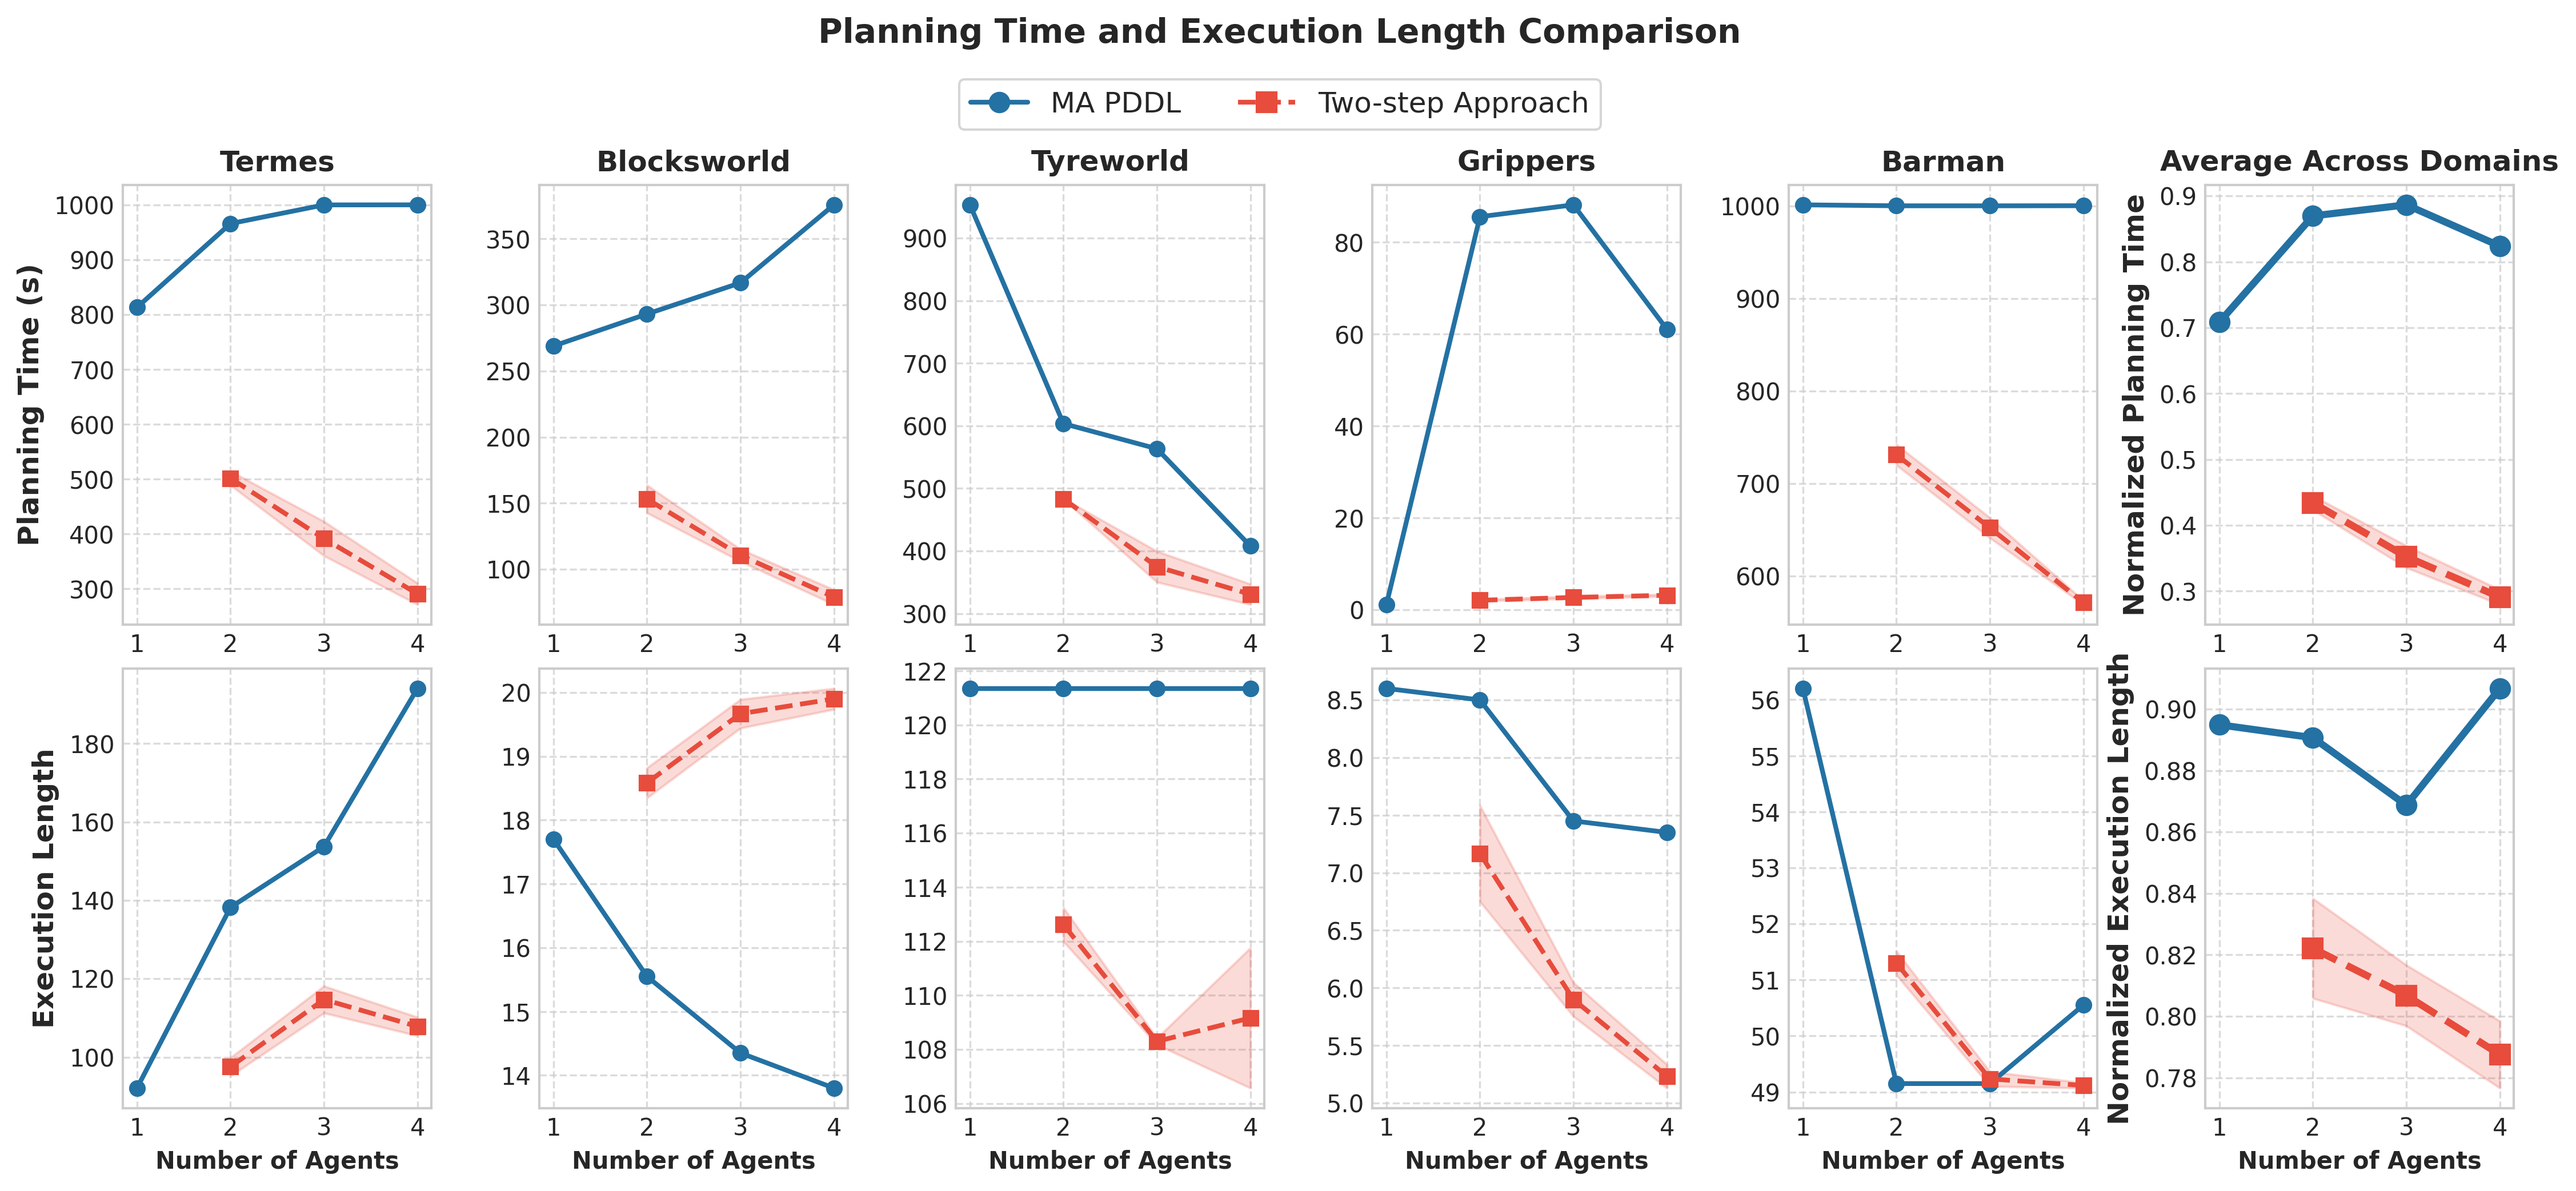
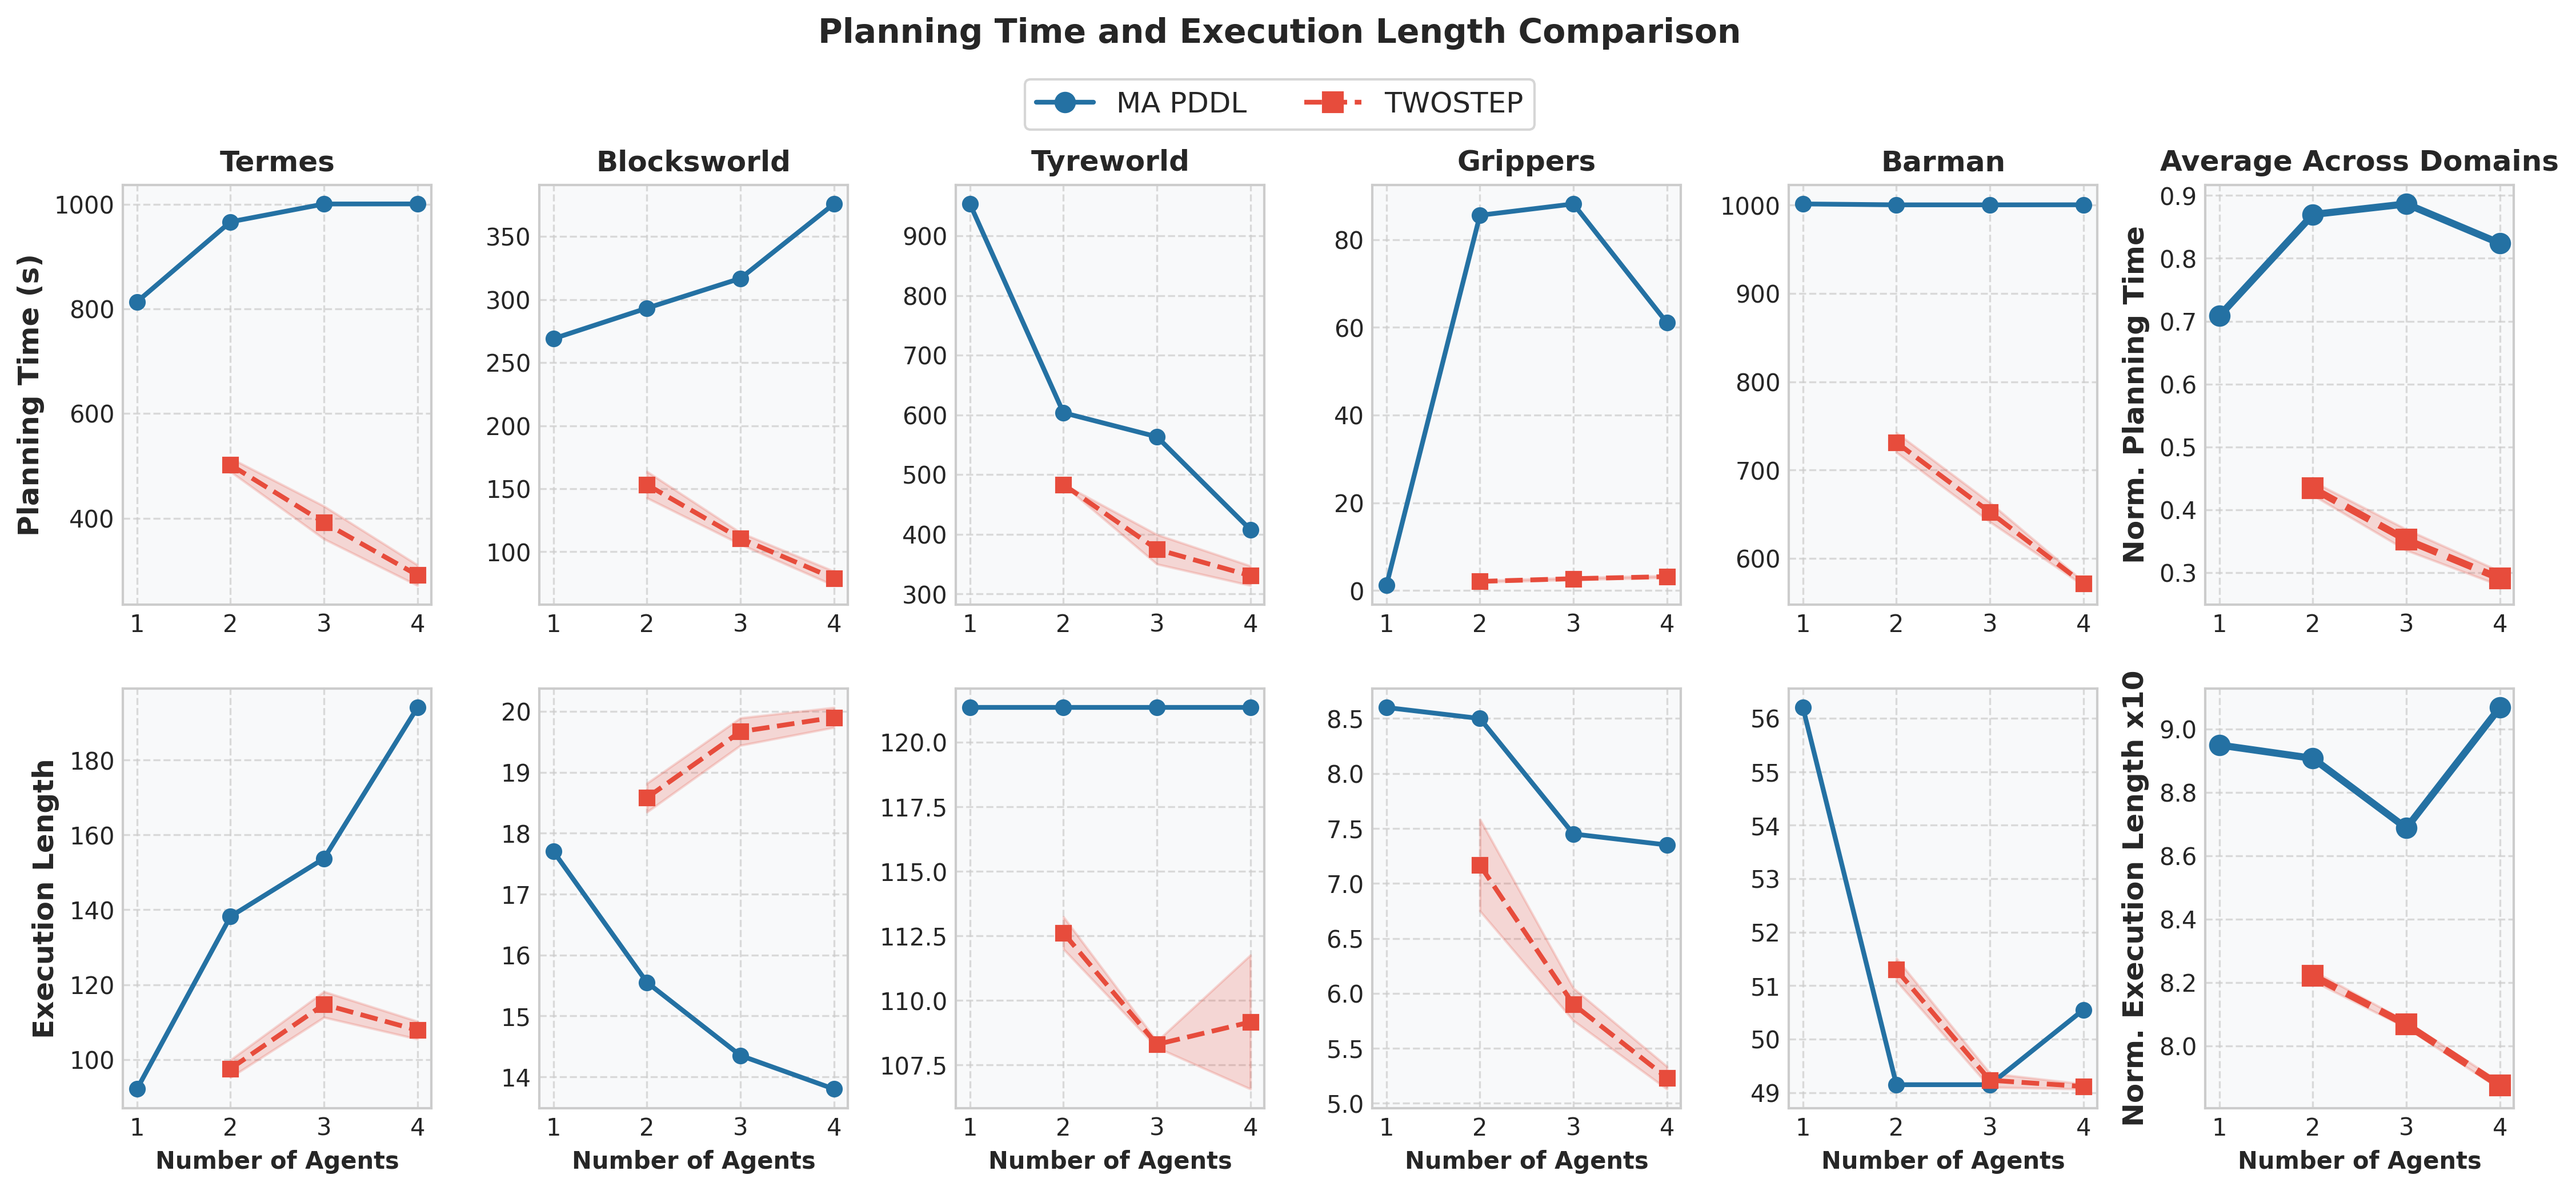
checkpoint + uncleaned 5a results

diff --git a/graph_results.py b/graph_results.py
@@ -67,27 +67,32 @@ twostep_data = {
     'barman': {
         2: {'runs': [(717.10, 51.00), (732.30, 51.45), (744.21, 51.45)]},
         3: {'runs': [(667.67, 49.05), (644.99, 49.30), (644.10, 49.35)]},
-        4: {'runs': [(568.66, 49.05), (573.92, 49.15), (571.89, 49.15)]}
+        4: {'runs': [(568.66, 49.05), (573.92, 49.15), (571.89, 49.15)]},
+        5: {'runs': [(631.85, 49.65), (502.12, 46.83), (547.94, 49.40)]}
     },
     'blocksworld': {
         2: {'runs': [(138.39, 18.25), (160.70, 18.75), (160.47, 18.75)]},
         3: {'runs': [(117.10, 19.65), (107.41, 19.40), (107.29, 19.95)]},
-        4: {'runs': [(75.33, 19.70), (74.69, 19.90), (86.87, 20.10)]}
+        4: {'runs': [(75.33, 19.70), (74.69, 19.90), (86.87, 20.10)]},
+        5: {'runs': [(70.08, 21.60), (80.28, 21.70), (85.63, 20.45)]}
     },
     'grippers': {
         2: {'runs': [(1.85, 7.75), (2.21, 6.95), (2.24, 6.80)]},
         3: {'runs': [(2.42, 6.10), (3.03, 5.85), (2.71, 5.75)]},
-        4: {'runs': [(2.88, 5.25), (3.38, 5.10), (3.29, 5.35)]}
+        4: {'runs': [(2.88, 5.25), (3.38, 5.10), (3.29, 5.35)]},
+        5: {'runs': [(3.23, 5.95), (4.01, 5.05), (2.42, 5.85)]}
     },
     'termes': {
         2: {'runs': [(513.31, 99.70), (508.23, 98.60), (483.86, 94.30)]},
         3: {'runs': [(402.16, 117.30), (423.61, 116.95), (349.08, 109.85)]},
-        4: {'runs': [(276.06, 107.75), (278.29, 104.95), (318.53, 110.75)]}
+        4: {'runs': [(276.06, 107.75), (278.29, 104.95), (318.53, 110.75)]},
+        5: {'runs': [(291.38, 113.90), (243.18, 120.38), (234.79, 110.81)]}
     },
     'tyreworld': {
         2: {'runs': [(482.60, 113.50), (483.91, 112.20), (483.39, 112.15)]},
         3: {'runs': [(354.27, 108.15), (360.68, 108.45), (409.58, 108.30)]},
-        4: {'runs': [(322.95, 112.40), (353.46, 106.05), (315.78, 109.05)]}
+        4: {'runs': [(322.95, 112.40), (353.46, 106.05), (315.78, 109.05)]},
+        5: {'runs': [(257.83, 112.30), (209.56, 113.85), (209.32, 114.35)]}
     }
 }
 
@@ -111,8 +116,7 @@ def create_domain_plot(domain, metric, ylabel, title_suffix):
     x_values = []
     y_values = []
     
-    # Only graph up to 4 agents for multiagent approach
-    for n in range(1, 5):  # Changed from range(1, 6)
+    for n in range(1, 5):  # Changed to only go up to 4 agents
         key = f'{domain}-{n}'
         if key in results_dict:
             x_values.append(n)
@@ -128,7 +132,7 @@ def create_domain_plot(domain, metric, ylabel, title_suffix):
     
     # Two-step approach data
     if domain in twostep_data:
-        x_values_twostep = sorted(twostep_data[domain].keys())
+        x_values_twostep = [n for n in sorted(twostep_data[domain].keys()) if n <= 4]  # Only include up to 4 agents
         y_values_twostep = [twostep_data[domain][n][metric] for n in x_values_twostep]
         y_std_twostep = [twostep_data[domain][n][f'std_{metric.replace("avg_", "")}'] for n in x_values_twostep]
         
@@ -150,7 +154,7 @@ def create_domain_plot(domain, metric, ylabel, title_suffix):
     plt.title(f'{domain.capitalize()} Domain {title_suffix}', fontsize=16, fontweight='bold')
     plt.grid(True, linestyle='--', alpha=0.7)
     plt.legend(fontsize=12, frameon=True, fancybox=True, shadow=True)
-    plt.xticks(range(1, 5), fontsize=12)
+    plt.xticks(range(1, 5), fontsize=12)  # Changed to only show up to 4 agents
     plt.yticks(fontsize=12)
     
     # Add a light background color
@@ -171,24 +175,24 @@ def create_domain_plot(domain, metric, ylabel, title_suffix):
 # Function to create grid layout with properly normalized standard deviation
 def create_combined_grid_layout():
     plt.figure(figsize=(18, 7))
-    gs = GridSpec(2, 6, figure=plt.gcf(), hspace=0.1, wspace=0.35)
+    gs = GridSpec(2, 6, figure=plt.gcf(), hspace=0.2, wspace=0.35)
     
     # Create a single legend for the entire figure
     legend_elements = [
         Line2D([0], [0], color=approach_colors['multiagent'], marker='o', linestyle='-', 
                linewidth=2, markersize=8, label='MA PDDL'),
         Line2D([0], [0], color=approach_colors['twostep'], marker='s', linestyle='--', 
-               linewidth=2, markersize=8, label='Two-step Approach')
+               linewidth=2, markersize=8, label='TWOSTEP')
     ]
     
     # Store normalized data for averaging
     normalized_planning_time = {
-        'multiagent': {n: [] for n in range(1, 5)},  # Changed from range(1, 6)
+        'multiagent': {n: [] for n in range(1, 5)},
         'twostep': {n: [] for n in range(2, 5)}
     }
     
     normalized_solution_cost = {
-        'multiagent': {n: [] for n in range(1, 5)},  # Changed from range(1, 6)
+        'multiagent': {n: [] for n in range(1, 5)},
         'twostep': {n: [] for n in range(2, 5)}
     }
     
@@ -199,13 +203,13 @@ def create_combined_grid_layout():
     for idx, domain in enumerate(domains):
         # Top row - Planning Time
         ax_time = plt.subplot(gs[0, idx])
+        ax_time.set_facecolor('#f8f9fa')  # Add light gray background
         
         # Multiagent approach data - planning time
         x_values = []
         y_values = []
         
-        # Only graph up to 4 agents for multiagent approach
-        for n in range(1, 5):  # Changed from range(1, 6)
+        for n in range(1, 5):  # Changed to only go up to 4 agents
             key = f'{domain}-{n}'
             if key in results_dict:
                 x_values.append(n)
@@ -214,7 +218,7 @@ def create_combined_grid_layout():
         # Normalize planning time for multiagent approach
         if y_values:
             max_time = max(y_values)
-            for n, time in zip(range(1, 5), y_values):  # Changed from range(1, 6)
+            for n, time in zip(range(1, 5), y_values):  # Changed to only go up to 4 agents
                 normalized_planning_time['multiagent'][n].append(time / max_time if max_time > 0 else 0)
         
         ax_time.plot(x_values, y_values, 
@@ -226,7 +230,7 @@ def create_combined_grid_layout():
         
         # Two-step approach data - planning time
         if domain in twostep_data:
-            x_values_twostep = sorted(twostep_data[domain].keys())
+            x_values_twostep = [n for n in sorted(twostep_data[domain].keys()) if n <= 4]  # Only include up to 4 agents
             y_values_twostep = [twostep_data[domain][n]['avg_planning_time'] for n in x_values_twostep]
             y_std_twostep = [twostep_data[domain][n]['std_planning_time'] for n in x_values_twostep]
             
@@ -257,18 +261,18 @@ def create_combined_grid_layout():
         
         ax_time.set_title(f'{domain.capitalize()}', fontsize=12, fontweight='bold')
         ax_time.grid(True, linestyle='--', alpha=0.7)
-        ax_time.set_xticks(range(1, 5))
+        ax_time.set_xticks(range(1, 5))  # Changed to only show up to 4 agents
         ax_time.tick_params(axis='both', labelsize=10)  # Slightly smaller tick labels
         
         # Bottom row - Execution Length (formerly Solution Cost)
         ax_cost = plt.subplot(gs[1, idx])
+        ax_cost.set_facecolor('#f8f9fa')  # Add light gray background
         
         # Multiagent approach data - execution length
         x_values = []
         y_values = []
         
-        # Only graph up to 4 agents for multiagent approach
-        for n in range(1, 5):  # Changed from range(1, 6)
+        for n in range(1, 5):  # Changed to only go up to 4 agents
             key = f'{domain}-{n}'
             if key in results_dict:
                 x_values.append(n)
@@ -277,7 +281,7 @@ def create_combined_grid_layout():
         # Normalize execution length for multiagent approach
         if y_values:
             max_cost = max(y_values)
-            for n, cost in zip(range(1, 5), y_values):  # Changed from range(1, 6)
+            for n, cost in zip(range(1, 5), y_values):  # Changed to only go up to 4 agents
                 normalized_solution_cost['multiagent'][n].append(cost / max_cost if max_cost > 0 else 0)
         
         ax_cost.plot(x_values, y_values, 
@@ -289,7 +293,7 @@ def create_combined_grid_layout():
         
         # Two-step approach data - execution length
         if domain in twostep_data:
-            x_values_twostep = sorted(twostep_data[domain].keys())
+            x_values_twostep = [n for n in sorted(twostep_data[domain].keys()) if n <= 4]  # Only include up to 4 agents
             y_values_twostep = [twostep_data[domain][n]['avg_solution_cost'] for n in x_values_twostep]
             y_std_twostep = [twostep_data[domain][n]['std_solution_cost'] for n in x_values_twostep]
             
@@ -320,18 +324,19 @@ def create_combined_grid_layout():
         
         ax_cost.set_xlabel('Number of Agents', fontsize=10, fontweight='bold')
         ax_cost.grid(True, linestyle='--', alpha=0.7)
-        ax_cost.set_xticks(range(1, 5))
+        ax_cost.set_xticks(range(1, 5))  # Changed to only show up to 4 agents
         ax_cost.tick_params(axis='both', labelsize=10)  # Slightly smaller tick labels
     
     # Add average planning time plot (top right)
     ax_avg_time = plt.subplot(gs[0, 5])
+    ax_avg_time.set_facecolor('#f8f9fa')  # Add light gray background
     
     # Calculate average normalized planning time for multiagent approach
-    x_values_multi = list(range(1, 5))  # Changed from range(1, 6)
+    x_values_multi = list(range(1, 5))  # Changed to only go up to 4 agents
     y_values_multi = [np.mean(normalized_planning_time['multiagent'][n]) for n in x_values_multi]
     
     # Calculate average normalized planning time and std for two-step approach
-    x_values_twostep = list(range(2, 5))
+    x_values_twostep = list(range(2, 5))  # Changed to only go up to 4 agents
     y_values_twostep = [np.mean(normalized_planning_time['twostep'][n]) for n in x_values_twostep]
     # Average the normalized standard deviations
     y_std_twostep = [np.mean(normalized_planning_time_std[n]) for n in x_values_twostep]
@@ -366,14 +371,15 @@ def create_combined_grid_layout():
                            [y + std for y, std in zip(y_values_twostep, y_std_twostep)],
                            color=approach_colors['twostep'], alpha=0.2)
     
-    ax_avg_time.set_ylabel('Normalized Planning Time', fontsize=12, fontweight='bold')
+    ax_avg_time.set_ylabel('Norm. Planning Time', fontsize=12, fontweight='bold')
     ax_avg_time.set_title('Average Across Domains', fontsize=12, fontweight='bold')
     ax_avg_time.grid(True, linestyle='--', alpha=0.7)
-    ax_avg_time.set_xticks(range(1, 5))
+    ax_avg_time.set_xticks(range(1, 5))  # Changed to only show up to 4 agents
     ax_avg_time.tick_params(axis='both', labelsize=10)
     
     # Add average execution length plot (bottom right)
     ax_avg_cost = plt.subplot(gs[1, 5])
+    ax_avg_cost.set_facecolor('#f8f9fa')  # Add light gray background
     
     # Calculate average normalized execution length for multiagent approach
     y_values_multi = [np.mean(normalized_solution_cost['multiagent'][n]) for n in x_values_multi]
@@ -393,6 +399,9 @@ def create_combined_grid_layout():
         print(f"  {n} agents: {value:.4f} ± {std:.4f}")
     
     # Plot average execution length
+    y_values_multi = [y * 10 for y in y_values_multi]
+    y_values_twostep = [y * 10 for y in y_values_twostep]
+
     ax_avg_cost.plot(x_values_multi, y_values_multi,
                     color=approach_colors['multiagent'],
                     marker='o',
@@ -412,10 +421,10 @@ def create_combined_grid_layout():
                            [y + std for y, std in zip(y_values_twostep, y_std_twostep)],
                            color=approach_colors['twostep'], alpha=0.2)
     
-    ax_avg_cost.set_ylabel('Normalized Execution Length', fontsize=12, fontweight='bold')
+    ax_avg_cost.set_ylabel('Norm. Execution Length x10', fontsize=12, fontweight='bold')
     ax_avg_cost.set_xlabel('Number of Agents', fontsize=10, fontweight='bold')
     ax_avg_cost.grid(True, linestyle='--', alpha=0.7)
-    ax_avg_cost.set_xticks(range(1, 5))
+    ax_avg_cost.set_xticks(range(1, 5))  # Changed to only show up to 4 agents
     ax_avg_cost.tick_params(axis='both', labelsize=10)
     
     # Add a single legend at the top of the figure
@@ -437,3 +446,38 @@ for domain in domains:
 
 # Create the combined 2x5 grid layout
 create_combined_grid_layout()
+
+# Print tables in markdown format
+print("# Planning Results Data Tables\n")
+
+# Print multiagent table
+print("## Multiagent PDDL Approach Results\n")
+print("| Domain | Agents | Planning Time (s) | Execution Length | Timeouts |")
+print("|--------|--------|-------------------|------------------|----------|")
+
+for domain in domains:
+    for n in range(1, 6):
+        key = f'{domain}-{n}'
+        if key in results_dict:
+            time = results_dict[key]['avg_planning_time']
+            cost = results_dict[key]['avg_solution_cost']
+            timeouts = results_dict[key]['timeouts']
+            domain_formatted = domain.capitalize()
+            print(f"| {domain_formatted} | {n} | {time:.2f} | {cost:.2f} | {timeouts} |")
+
+# Print two-step table
+print("\n## Two-Step Approach Results (Average of 3 Runs)\n")
+print("| Domain | Agents | Planning Time (s) | Execution Length |")
+print("|--------|--------|-------------------|------------------|")
+
+for domain in domains:
+    if domain in twostep_data:
+        for n in sorted(twostep_data[domain].keys()):
+            time = twostep_data[domain][n]['avg_planning_time']
+            time_std = twostep_data[domain][n]['std_planning_time']
+            cost = twostep_data[domain][n]['avg_solution_cost']
+            cost_std = twostep_data[domain][n]['std_solution_cost']
+            domain_formatted = domain.capitalize()
+            print(f"| {domain_formatted} | {n} | {time:.2f} ± {time_std:.2f} | {cost:.2f} ± {cost_std:.2f} |")
+
+print("\n*Note: For the Two-Step approach, values are presented as mean ± standard deviation from 3 independent runs.*")
